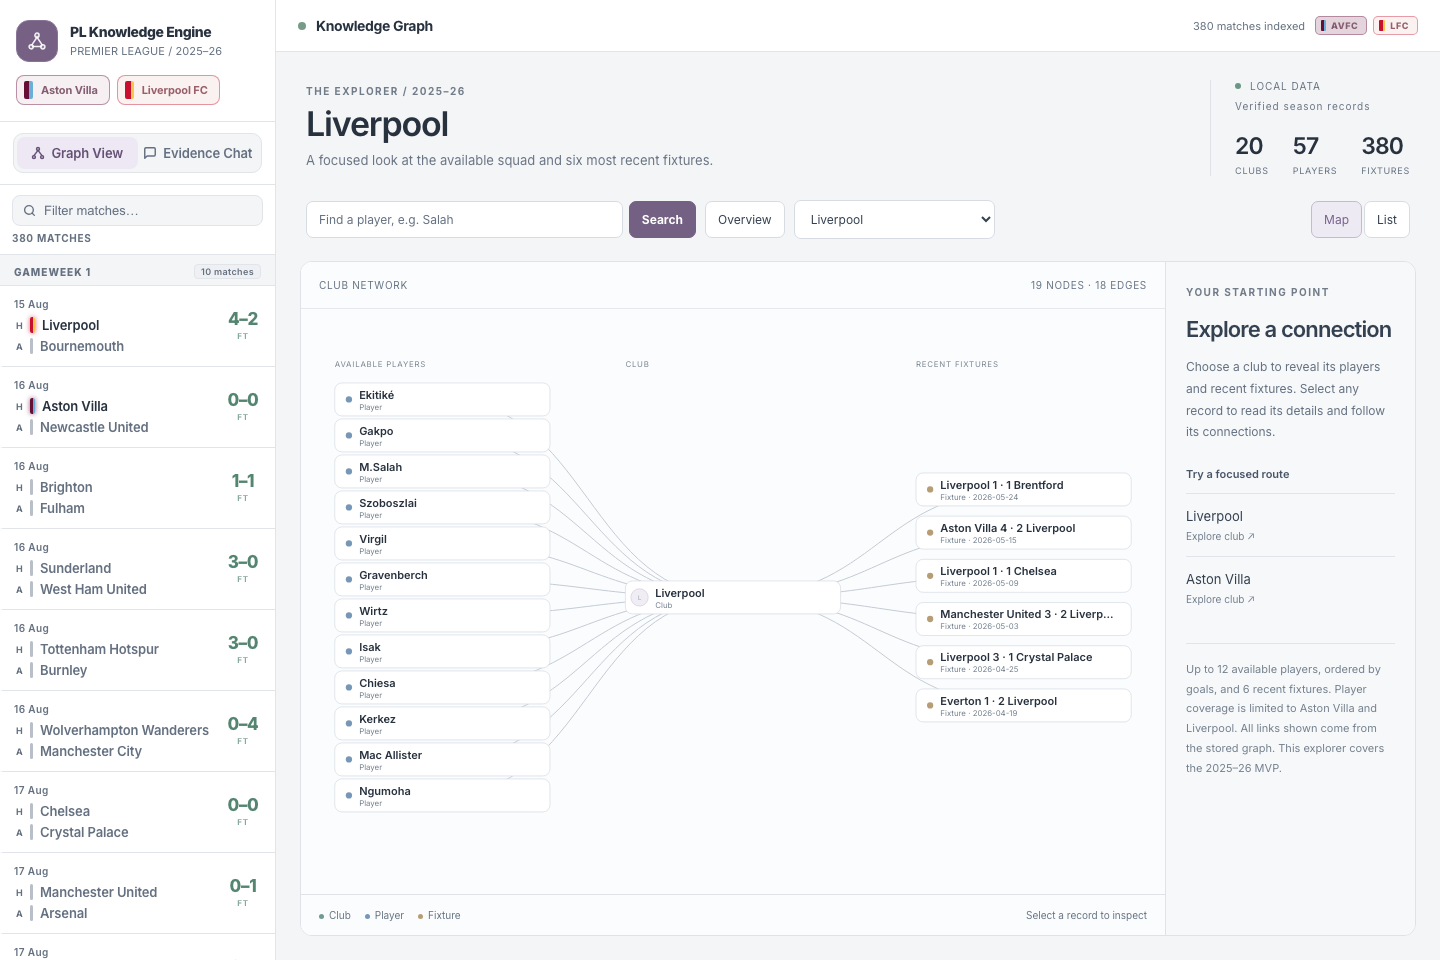
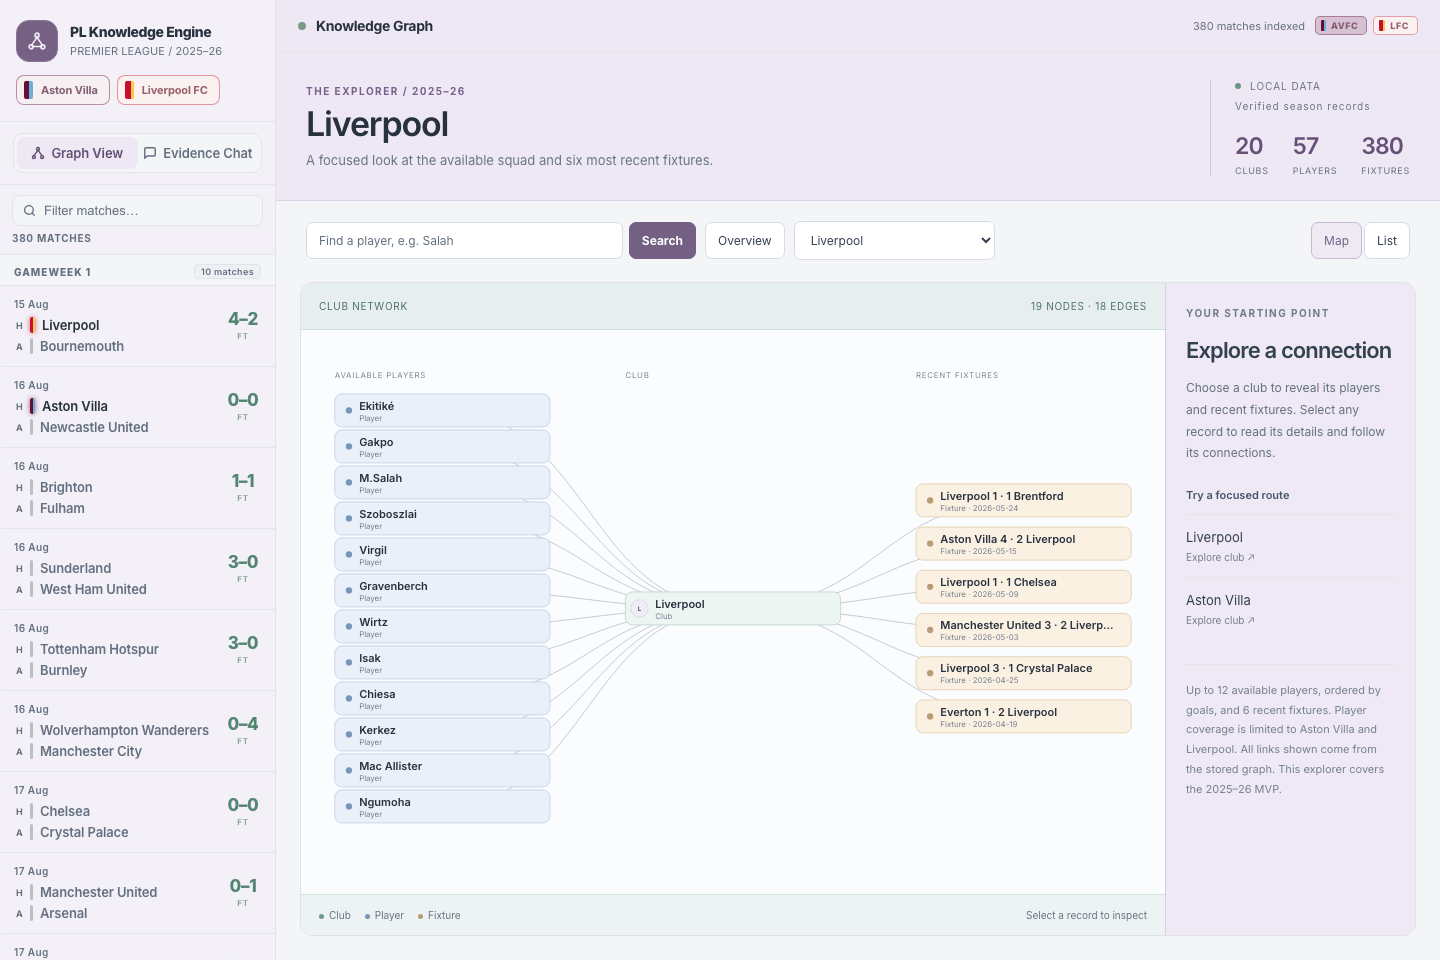
docs: update demo gallery with balanced light colors

diff --git a/README.md b/README.md
@@ -32,7 +32,7 @@ The [fresh-data MVP milestone](https://github.com/jengaWiz/pl-knowledge-engine/m
 
 ## Demo
 
-The workspace uses an off-white canvas, white cards and restrained plum accents, with readable graph labels and a compact fixture sidebar.
+The workspace uses an off-white canvas, lavender navigation and context panels, and softly tinted records: sage clubs, blue players and sand fixtures. Readable labels and a compact fixture sidebar keep the graph easy to follow.
 
 ![Club-first relationship explorer showing the 20 Premier League clubs and season](docs/images/demo-graph.png)
 
